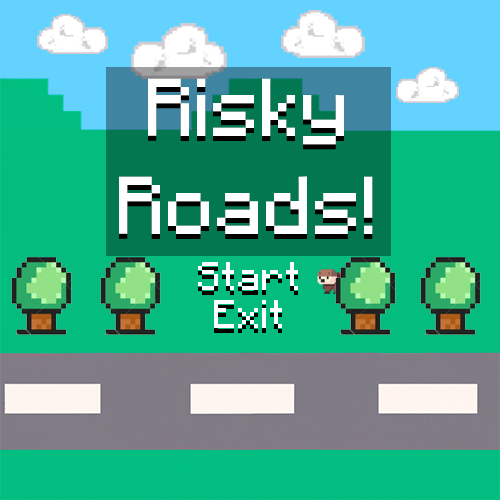
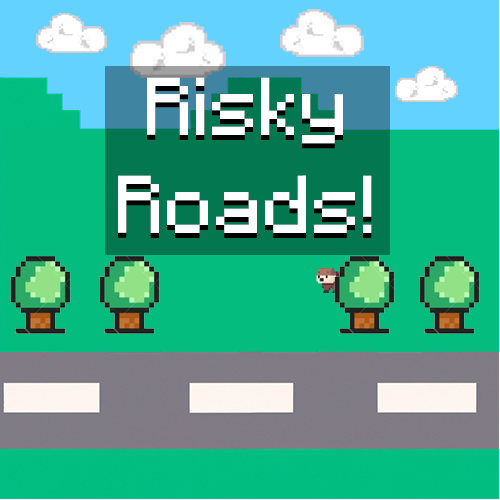
Working Buttons
buttons work now

diff --git a/Button_Start.java b/Button_Start.java
@@ -1,0 +1,32 @@
+import greenfoot.*;  // (World, Actor, GreenfootImage, Greenfoot and MouseInfo)
+
+/**
+ * Write a description of class Button_Start here.
+ * 
+ * @author (your name) 
+ * @version (a version number or a date)
+ */
+public class Button_Start extends Actor
+{
+    /**
+     * Act - do whatever the Button_Start wants to do. This method is called whenever
+     * the 'Act' or 'Run' button gets pressed in the environment.
+     */
+    public void act()
+    {
+        if (Greenfoot.mouseMoved(this))
+        {            
+            setImage("Button_Start_Hover.PNG");
+        }
+        if (Greenfoot.mouseClicked(this))
+        {
+            Greenfoot.setWorld(new frostLevel());
+        }
+        if (Greenfoot.mouseMoved(getWorld()))
+        {
+            setImage("Button_Start.PNG");
+        }
+    }
+}
+
+    

diff --git a/Button_Exit.java b/Button_Exit.java
@@ -1,0 +1,30 @@
+import greenfoot.*;  // (World, Actor, GreenfootImage, Greenfoot and MouseInfo)
+
+/**
+ * Write a description of class Button_Exit here.
+ * 
+ * @author (your name) 
+ * @version (a version number or a date)
+ */
+public class Button_Exit extends Actor
+{
+    /**
+     * Act - do whatever the Button_Exit wants to do. This method is called whenever
+     * the 'Act' or 'Run' button gets pressed in the environment.
+     */
+    public void act()
+    {
+        if (Greenfoot.mouseMoved(this))
+        {
+            setImage("Button_Exit_Hover.PNG");
+        }
+        if (Greenfoot.mouseMoved(getWorld()))
+        {
+            setImage("Button_Exit.PNG");
+        }
+        if (Greenfoot.mouseClicked(this))
+        {
+            Greenfoot.stop();
+        }
+    }
+}

diff --git a/menu.java b/menu.java
@@ -17,5 +17,19 @@ public class menu extends World
     {    
         // Create a new world with 600x400 cells with a cell size of 1x1 pixels.
         super(500, 500, 1); 
+        prepare();
+    }
+    /**
+     * Prepare the world for the start of the program.
+     * That is: create the initial objects and add them to the world.
+     */
+    private void prepare()
+    {
+        Button_Exit button_Exit = new Button_Exit();
+        addObject(button_Exit,250,330);
+        Button_Start button_Start = new Button_Start();
+        addObject(button_Start,250,280);
+        button_Exit.setLocation(250,330);
+        button_Start.setLocation(250,280);
     }
 }

diff --git a/SplashScreen.java b/SplashScreen.java
@@ -1,0 +1,21 @@
+import greenfoot.*;  // (World, Actor, GreenfootImage, Greenfoot and MouseInfo)
+
+/**
+ * Write a description of class SplashScreen here.
+ * 
+ * @author (your name) 
+ * @version (a version number or a date)
+ */
+public class SplashScreen extends World
+{
+
+    /**
+     * Constructor for objects of class SplashScreen.
+     * 
+     */
+    public SplashScreen()
+    {    
+        // Create a new world with 600x400 cells with a cell size of 1x1 pixels.
+        super(600, 400, 1); 
+    }
+}
